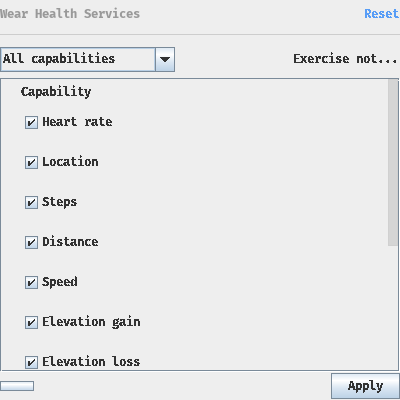
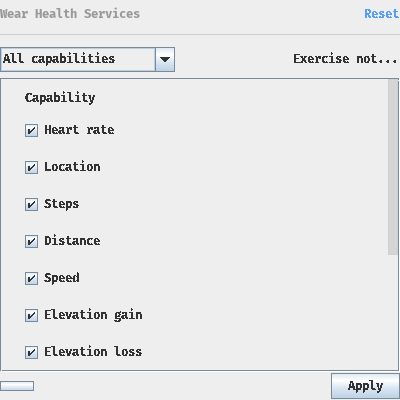
Align "override" label with text fields below
Fixes: 373397938
Test: //tools/adt/idea/wear-whs

diff --git a/wear-whs/src/com/android/tools/idea/wearwhs/view/WearHealthServicesPanel.kt b/wear-whs/src/com/android/tools/idea/wearwhs/view/WearHealthServicesPanel.kt
@@ -39,6 +39,7 @@ import com.intellij.ui.components.ActionLink
 import com.intellij.ui.components.JBLabel
 import com.intellij.ui.components.JBScrollPane
 import com.intellij.ui.dsl.builder.AlignX
+import com.intellij.ui.dsl.builder.RightGap
 import com.intellij.ui.dsl.builder.panel
 import com.intellij.ui.layout.selected
 import com.intellij.util.ui.JBUI
@@ -82,6 +83,8 @@ private val floatPattern = Regex("^(0|0?[1-9]\\d*)?(\\.[0-9]*)?\$")
 private const val PADDING = 15
 private val horizontalBorders = JBUI.Borders.empty(0, PADDING)
 
+private const val RIGHT_COLUMN_WIDTH_GROUP = "rightColumnWidthGroup"
+
 internal const val LEARN_MORE_URL =
   "https://developer.android.com/health-and-fitness/guides/health-services/simulated-data#use_the_health_services_sensor_panel"
 
@@ -105,34 +108,33 @@ private fun createCenterPanel(
       elementsToDisplayDuringExercise.forEach { element -> element.isVisible = it }
     }
     .launchIn(uiScope)
+
   return JPanel(VerticalFlowLayout()).apply {
     border = horizontalBorders
     add(
-      JPanel(BorderLayout()).apply {
-        add(
-          JLabel(message("wear.whs.panel.sensor")).apply { font = font.deriveFont(Font.BOLD) },
-          BorderLayout.CENTER,
-        )
-        add(
-          JPanel(FlowLayout()).apply {
-            add(
-              JLabel(message("wear.whs.panel.override")).apply {
-                isVisible = stateManager.ongoingExercise.value == true
-                elementsToDisplayDuringExercise.add(this)
-                font = font.deriveFont(Font.BOLD)
-              }
-            )
+      panel {
+        twoColumnsRow(
+          {
+            label(message("wear.whs.panel.sensor")).also {
+              it.component.font = it.component.font.deriveFont(Font.BOLD)
+            }
           },
-          BorderLayout.EAST,
+          {
+            label(message("wear.whs.panel.override"))
+              .also {
+                it.component.font = it.component.font.deriveFont(Font.BOLD)
+                it.component.isVisible = stateManager.ongoingExercise.value == true
+                elementsToDisplayDuringExercise.add(it.component)
+              }
+              .widthGroup(RIGHT_COLUMN_WIDTH_GROUP)
+              .align(AlignX.RIGHT)
+          },
         )
-      }
-    )
-    capabilities.forEach { capability ->
-      add(
-        JPanel(BorderLayout()).apply {
+
+        capabilities.forEach { capability ->
           val label =
             JLabel(message(capability.label)).also { label ->
-              label.preferredSize = Dimension(0, 35)
+              label.preferredSize = Dimension(0, 25)
               val plainFont = label.font.deriveFont(Font.PLAIN)
               val italicFont = label.font.deriveFont(Font.ITALIC)
               combine(stateManager.getState(capability), stateManager.ongoingExercise) {
@@ -204,20 +206,28 @@ private fun createCenterPanel(
             }
             .launchIn(uiScope)
 
-          add(checkBox, BorderLayout.LINE_START)
-          add(label, BorderLayout.CENTER)
-          add(
-            JPanel(FlowLayout()).apply {
-              isVisible = stateManager.ongoingExercise.value == true
-              elementsToDisplayDuringExercise.add(this)
-              add(textField)
-              add(unitLabel)
+          twoColumnsRow(
+            {
+              cell(checkBox).gap(RightGap.SMALL)
+              cell(label)
             },
-            BorderLayout.EAST,
+            {
+              cell(
+                  JPanel(FlowLayout(FlowLayout.TRAILING)).apply {
+                    isVisible = stateManager.ongoingExercise.value == true
+                    elementsToDisplayDuringExercise.add(this)
+                    label.labelFor = this
+                    add(textField)
+                    add(unitLabel)
+                  }
+                )
+                .widthGroup(RIGHT_COLUMN_WIDTH_GROUP)
+                .align(AlignX.RIGHT)
+            },
           )
         }
-      )
-    }
+      }
+    )
   }
 }
 

diff --git a/wear-whs/testSrc/com/android/tools/idea/wearwhs/view/WearHealthServicesPanelTest.kt b/wear-whs/testSrc/com/android/tools/idea/wearwhs/view/WearHealthServicesPanelTest.kt
@@ -464,17 +464,11 @@ class WearHealthServicesPanelTest {
         }
 
       waitForCondition(5.seconds) {
-        val siblingComponents = locationLabel.parent.components
-        siblingComponents
-          .filterIsInstance<JPanel>()
-          .single()
-          .components
-          .filterIsInstance<JLabel>()
-          .any {
-            it.icon == AllIcons.General.Note &&
-              it.toolTipText == message("wear.whs.capability.override.not.supported") &&
-              it.isVisible
-          }
+        (locationLabel.labelFor as JPanel).components.filterIsInstance<JLabel>().any {
+          it.icon == AllIcons.General.Note &&
+            it.toolTipText == message("wear.whs.capability.override.not.supported") &&
+            it.isVisible
+        }
       }
     }
 
